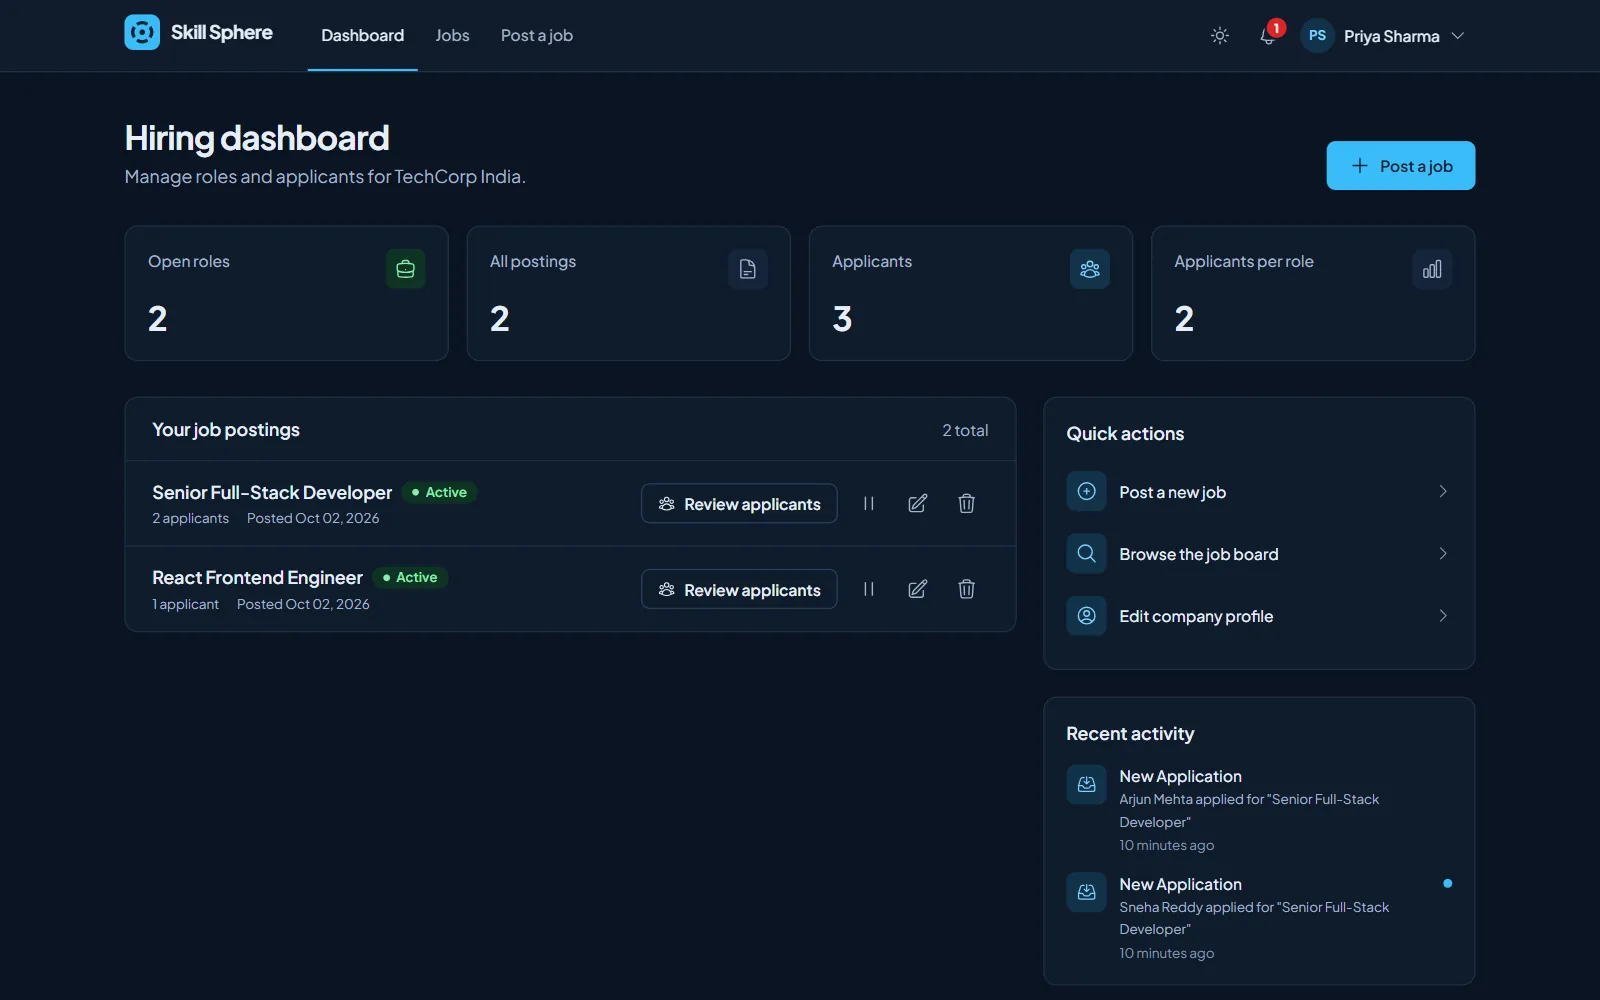
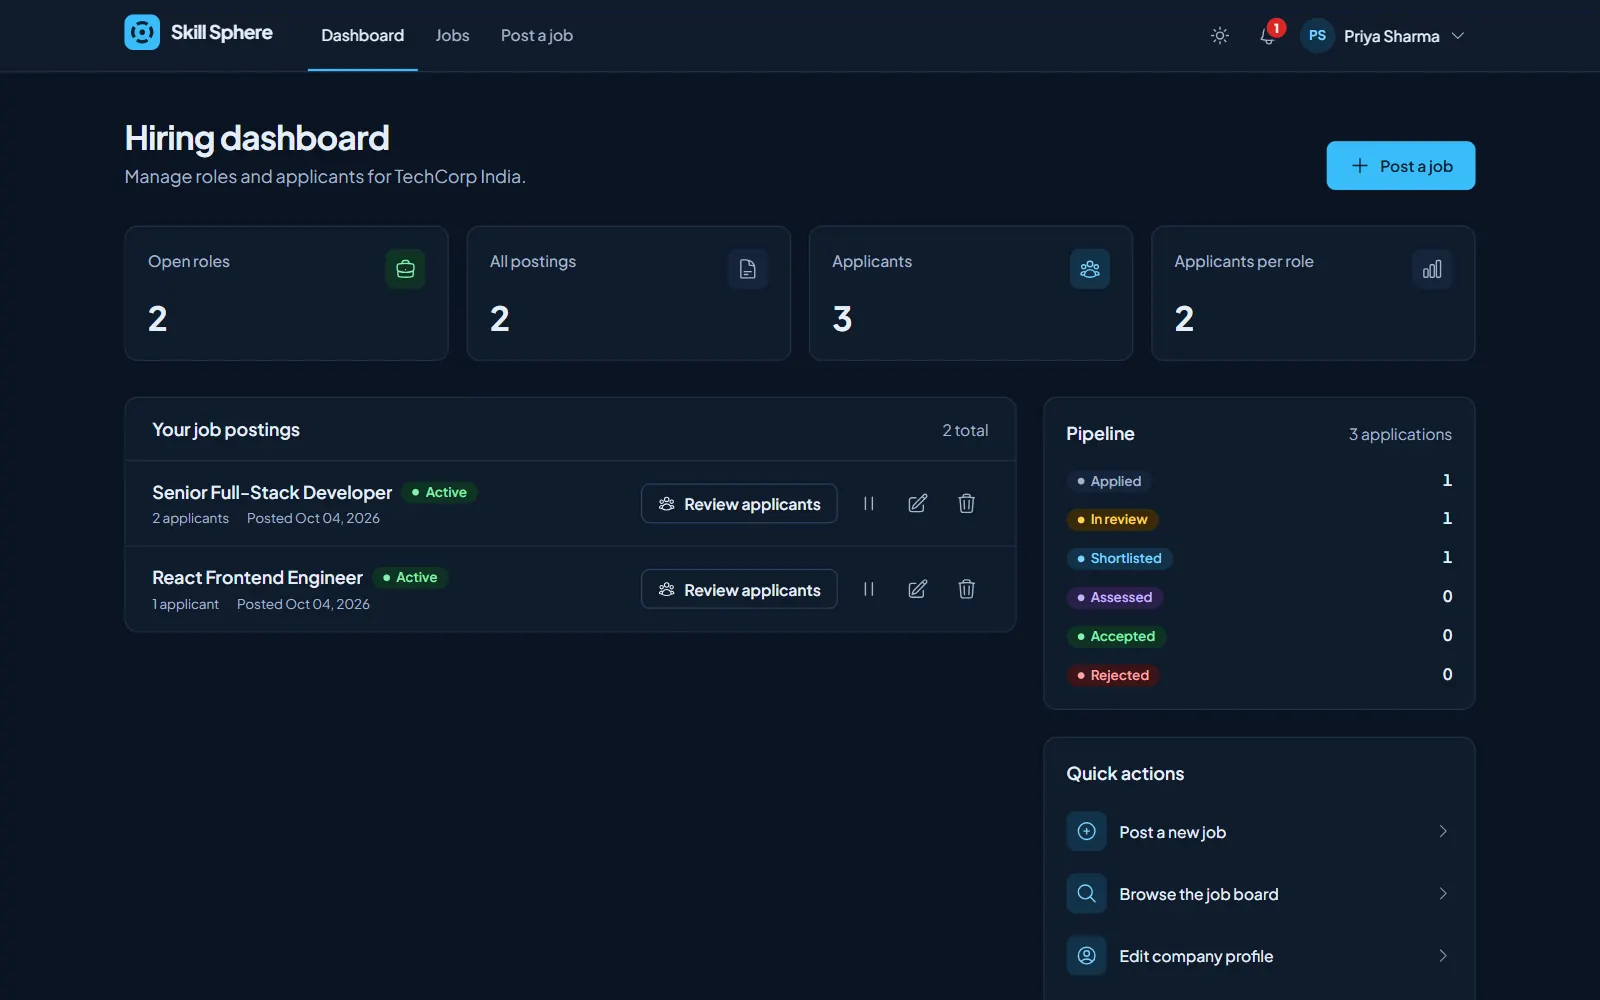
Bring Skill Sphere in line with the updated résumé and repository
The résumé's Skill Sphere numbers changed, so everything that quoted the old ones follows it:

- Index result: the dashboard query is cut 57% (28 ms to 12 ms) and its counts are answered from the index alone, 5,262 documents read down to 0. Was 83% (820 ms to 140 ms).
- Load test: zero failed requests at 200 concurrent users, with p95 under 180 ms in 5 of 6 runs. Was a flat 180 ms p95.
- Updated on the hero numbers, the project card, the case study's result, proof bars and technical decisions.

The repository gained the screens these numbers come from, so the hiring dashboard picture now shows the pipeline counts, the applicants picture shows the counts, sorting and paging, and the new Edit job page has a picture of its own.

Download CV now hands out the updated résumé.

Changed region(s): [[0.6562, 0.403, 0.875, 0.992], [0.8438, 0.434, 0.9062, 0.465]]

diff --git a/src/data/portfolio.js b/src/data/portfolio.js
@@ -88,9 +88,9 @@ export const hero = {
   },
   cta: { label: "View projects", section: "projects" },
   stats: [
-    { value: 83, suffix: "%", label: "faster dashboard queries after indexing" },
+    { value: 57, suffix: "%", label: "faster dashboard query with compound indexes" },
     { value: 1000, suffix: "+", label: "parallel booking requests, zero double-bookings" },
-    { value: 200, suffix: "", label: "concurrent users at 180 ms p95, zero failed requests" },
+    { value: 200, suffix: "", label: "concurrent users in load tests, zero failed requests" },
   ],
   photo: {
     // A transparent cutout, in two widths. The master PNG sits beside them as /sinchal-cutout.png.
@@ -416,9 +416,9 @@ export const projects = {
       title: "Skill Sphere",
       tagline: "Skill-based recruitment portal",
       tags: ["MERN", "MongoDB indexing", "Load testing"],
-      result: "180 ms p95 at 200 concurrent users, zero failed requests",
+      result: "Zero failed requests at 200 concurrent users, p95 under 180 ms in 5 of 6 runs",
       summary:
-        "A recruitment portal with role-based access for recruiters and candidates. Compound indexes on skill tags and application status made its dashboard queries 83% faster.",
+        "A recruitment portal with role-based access for recruiters and candidates. Compound indexes on skill tags and application status cut its dashboard query 57%, from 28 ms to 12 ms.",
       links: {
         github: "https://github.com/sinchalkar001-dev/Skill-Sphere-Online-Skill-Based-Recruitment-Portal",
       },
@@ -427,13 +427,13 @@ export const projects = {
         type: "query",
         title: "Dashboard query time",
         unit: "ms",
-        before: { label: "Without compound indexes", value: 820 },
-        after: { label: "With compound indexes", value: 140 },
-        note: "83% faster once compound indexes are added.",
+        before: { label: "Without compound indexes", value: 28 },
+        after: { label: "With compound indexes", value: 12 },
+        note: "57% faster. With the compound indexes the counts are answered from the index alone, so the documents read drop from 5,262 to 0. The method and every run are written up in the repository.",
       },
       overview: "Skill Sphere is a skill-based recruitment portal with role-based access for recruiters and candidates.",
       built:
-        "React dashboards over an Express REST API, backed by 6 MongoDB collections that support 500+ applications per posting. I load-tested the API at 200 concurrent users: 180 ms p95 latency with zero failed requests.",
+        "React dashboards over an Express REST API, backed by 6 MongoDB collections that support 500+ applications per posting. I load-tested the API at 200 concurrent users: zero failed requests, with p95 latency under 180 ms in 5 of 6 runs.",
       features: [
         "6 MongoDB collections supporting 500+ applications per posting, with compound indexes on skill tags and application status",
         "Stateless JWT auth with bcrypt hashing and role-based access for recruiters and candidates",
@@ -451,7 +451,7 @@ export const projects = {
         {
           title: "Indexes built for the dashboard's queries",
           detail:
-            "Compound indexes on skill tags and application status took dashboard query time from 820 ms to 140 ms, 83% faster.",
+            "Compound indexes on skill tags and application status cut the dashboard query 57%, from 28 ms to 12 ms. The counts are answered from the index alone, so the documents read fell from 5,262 to 0.",
         },
         {
           title: "Stateless authentication",
@@ -459,7 +459,8 @@ export const projects = {
         },
         {
           title: "Emails that retry",
-          detail: "Status-change emails go out with retry-on-failure delivery.",
+          detail:
+            "Status-change emails go out with retry-on-failure delivery: each one is queued first, sent in the background, and tried again after a longer wait each time a send fails.",
         },
       ],
       stack: ["React", "Node.js", "Express", "MongoDB", "JWT", "Nodemailer"],
@@ -472,6 +473,13 @@ export const projects = {
           "Skill Sphere's post-a-job form: requirements and responsibilities above an assessment rubric with four criteria, each with a maximum score and a weight",
           "Posting a job with its rubric",
           "A recruiter lists the role's tech stack, requirements and responsibilities, then sets the rubric every applicant will be scored on: each criterion with a maximum score and a weight.",
+        ),
+        shot(
+          "skill-sphere",
+          "13-edit-job",
+          "Skill Sphere's Edit job page: the posting form filled in with a senior full-stack developer role's title, description, job type and location",
+          "Editing a posting",
+          "A posting can be changed after it goes live, in the same form, filled in with what was saved. Only the recruiter who owns the posting can edit it.",
         ),
         shot(
           "skill-sphere",
@@ -504,16 +512,16 @@ export const projects = {
         shot(
           "skill-sphere",
           "02-hiring-dashboard",
-          "Skill Sphere's hiring dashboard in dark mode: counts of open roles and applicants, the recruiter's job postings, quick actions and recent activity",
+          "Skill Sphere's hiring dashboard in dark mode: counts of open roles and applicants, the recruiter's job postings, and the pipeline counted by stage",
           "Hiring dashboard",
-          "A recruiter's open roles, postings and applicants at a glance, with each posting's applicant count and controls to review, pause, edit or delete it. Shown in dark mode.",
+          "A recruiter's open roles, postings and applicants at a glance. The Pipeline panel counts every application by stage: that is the dashboard query the compound indexes answer from the index alone, without reading a single document. Shown in dark mode.",
         ),
         shot(
           "skill-sphere",
           "03-applicants",
-          "Skill Sphere applicant review: each candidate's skills and cover letter, with assess, accept and reject actions",
+          "Skill Sphere applicant review: stage filters with a count on each, a sort menu, and each candidate's skills and cover letter with assess, accept and reject actions",
           "Reviewing applicants",
-          "Everyone who applied for a role, filtered by stage, each with their skills, experience and cover letter. From here a recruiter starts a review, shortlists, scores, accepts or rejects.",
+          "Everyone who applied for a role, with a count on every stage filter, sorted by date or by score and loaded a page at a time. From here a recruiter starts a review, shortlists, scores, accepts or rejects.",
         ),
         shot(
           "skill-sphere",
@@ -527,7 +535,7 @@ export const projects = {
           "11-notifications",
           "The notifications menu open on a candidate's dashboard in Skill Sphere: Assessment Complete with an 83% score, and Application Shortlisted",
           "Live notifications",
-          "Being shortlisted, scored or moved to another stage reaches the candidate at once over Socket.IO, under the bell in the header, and by email as well.",
+          "Being shortlisted, scored or moved to another stage reaches the candidate at once over Socket.IO, under the bell in the header, and by email, which is retried if a send fails.",
         ),
         shot(
           "skill-sphere",
